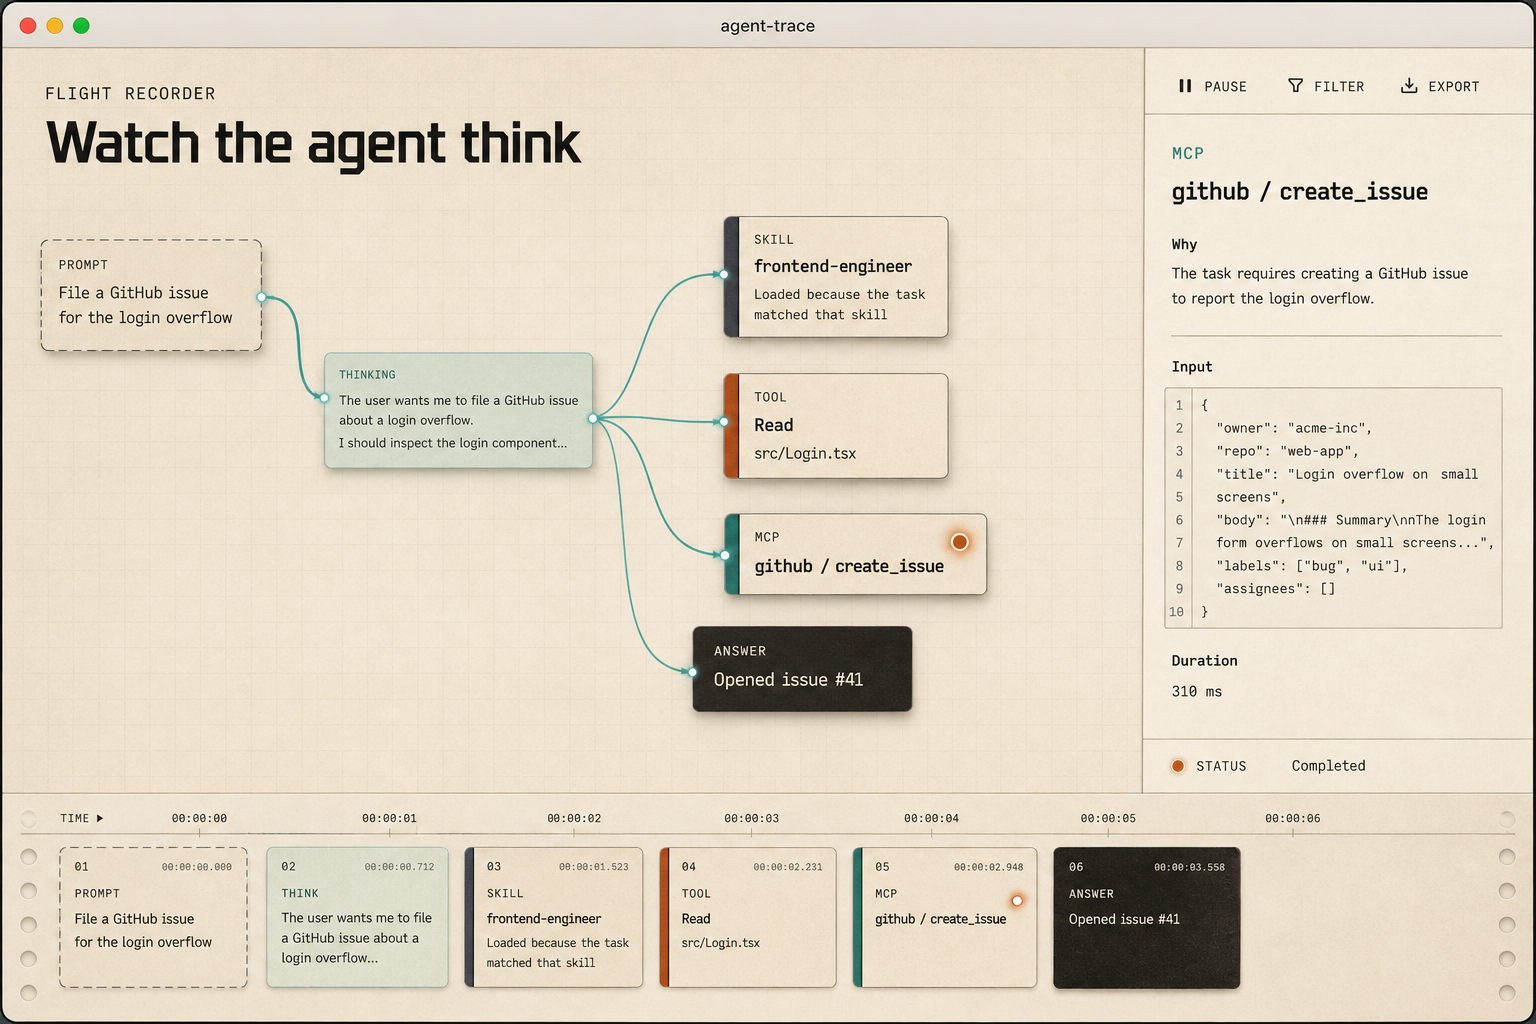
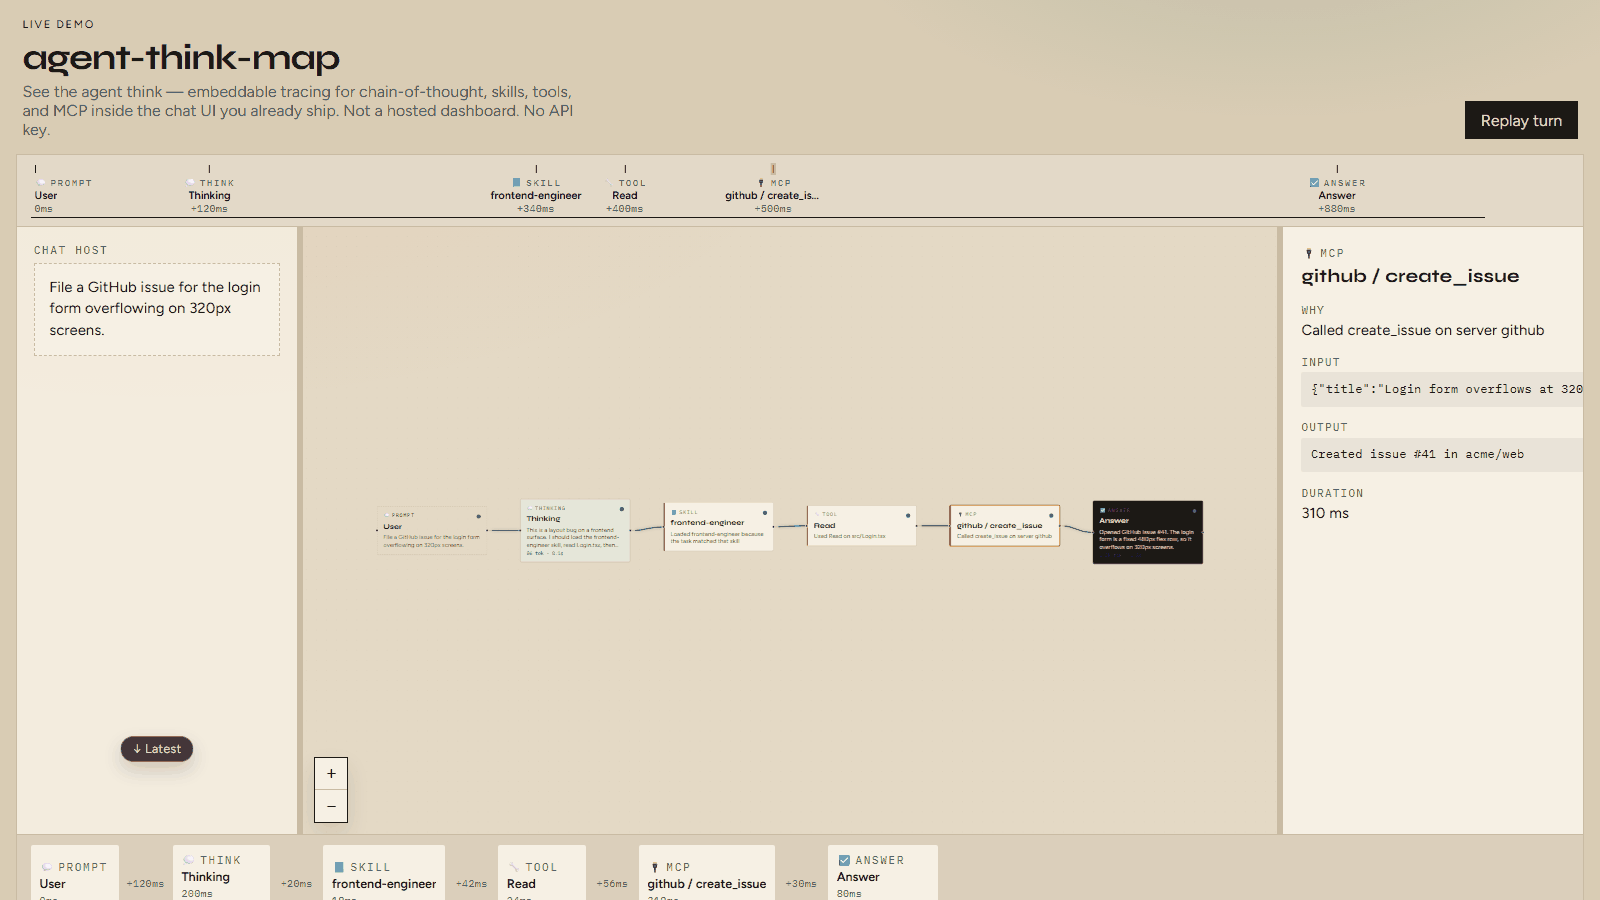
feat: brand the demo and launch assets as agent-think-map
Hero, OG, GIF, and the live demo masthead now show the product name so share cards match the repo instead of the old tagline-only chrome.

diff --git a/apps/demo/index.html b/apps/demo/index.html
@@ -3,16 +3,16 @@
   <head>
     <meta charset="UTF-8" />
     <meta name="viewport" content="width=device-width, initial-scale=1.0" />
-    <title>Visualize AI Agent Thinking: Live Demo</title>
+    <title>agent-think-map — See the agent think</title>
     <meta
       name="description"
-      content="See the agent think — live CoT, skills, tools, and MCP inside the chat you already ship. Not a dashboard. No API key."
+      content="agent-think-map: see the agent think — live CoT, skills, tools, and MCP inside the chat you already ship. Not a dashboard. No API key."
     />
     <link rel="canonical" href="https://nimrodfisher.github.io/agent-think-map/" />
-    <meta property="og:title" content="Visualize AI Agent Thinking: Live Demo" />
+    <meta property="og:title" content="agent-think-map — See the agent think" />
     <meta
       property="og:description"
-      content="Embeddable canvas for chain-of-thought, skills, tools, and MCP inside the chat UI you already ship. No API key."
+      content="agent-think-map is an embeddable canvas for chain-of-thought, skills, tools, and MCP inside the chat UI you already ship. No API key."
     />
     <meta property="og:type" content="website" />
     <meta property="og:url" content="https://nimrodfisher.github.io/agent-think-map/" />

diff --git a/apps/demo/src/App.tsx b/apps/demo/src/App.tsx
@@ -10,11 +10,12 @@ export default function App() {
     <div className="demo-shell">
       <header className="demo-mast">
         <div>
-          <span className="atc-kicker">In-product canvas</span>
-          <h1>See the agent think</h1>
+          <span className="atc-kicker">Live demo</span>
+          <h1>agent-think-map</h1>
           <p>
-            Embeddable tracing for chain-of-thought, skills, tools, and MCP inside
-            the chat UI you already ship — not a hosted dashboard. No API key.
+            See the agent think — embeddable tracing for chain-of-thought, skills,
+            tools, and MCP inside the chat UI you already ship. Not a hosted
+            dashboard. No API key.
           </p>
         </div>
         <button type="button" className="demo-replay" onClick={() => setEpoch((n) => n + 1)}>

diff --git a/docs/gtm-plan.md b/docs/gtm-plan.md
@@ -6,20 +6,20 @@ Executable playbook to make the repo discoverable, convert visitors into stars, 
 
 ---
 
-## Snapshot (17 Aug 2026)
+## Snapshot (19 Aug 2026)
 
-The product already solves a real pain: agents fail in the **path**, and chat logs show the ending. The README’s problem statement is strong. Distribution is not.
+The product already solves a real pain: agents fail in the **path**, and chat logs show the ending. The README’s problem statement is strong. Distribution is not. Public name is **agent-think-map** everywhere — repo, package, demo, web component. Do not say agent-trace in new copy.
 
 | Fact | Status |
 | --- | --- |
-| GitHub | [nimrodfisher/agent-trace](https://github.com/nimrodfisher/agent-trace) — 0 stars, 0 forks, 0 topics, created 16 Aug 2026 |
-| About line | `Real time CoT Tracing` — this is the Google snippet |
-| Package name | `agent-think-map` — **free on npm** |
+| GitHub | [nimrodfisher/agent-think-map](https://github.com/nimrodfisher/agent-think-map) — renamed; old `agent-trace` URL 301s |
+| About line | Still the default GitHub blurb — paste the one-sentence pitch (below) |
+| Package name | `agent-think-map` — **free on npm**, not yet published |
 | `agent-trace` on npm | **Taken** by someone else: “Self-hosted observability for AI coding agents” |
-| Live demo | None. GitHub Pages is off |
-| Motion | Static `docs/hero.png` at **2.2 MB**. No GIF |
-| Install | `npm i github:nimrodfisher/agent-trace` — reads unfinished |
-| Web component | `<agent-simulator>` — third name |
+| Live demo | [GitHub Pages](https://nimrodfisher.github.io/agent-think-map/) |
+| Motion | `docs/demo.gif` + `docs/hero.png` of the live canvas |
+| Install | `npm i github:nimrodfisher/agent-think-map` until npm publish |
+| Web component | `<agent-think-map>` (`<agent-simulator>` is a deprecated alias) |
 | Your reach | 74 GitHub followers, [ai-analytics-hub.com](https://ai-analytics-hub.com) |
 
 Closest comps: [agent-prism](https://github.com/evilmartians/agent-prism) (381 stars, live demo, brand) vs [agentThinkingUI](https://github.com/footprintjs/agentThinkingUI) (same “watch any agent think” pitch, 2 stars). The pitch without packaging and a launch week does not travel.
@@ -60,11 +60,11 @@ If any of those three fail, they bounce. Stars are a weak signal. The conversion
 
 Public name is **agent-think-map**. Everywhere.
 
-| Surface | Today | Change to |
+| Surface | Was | Now |
 | --- | --- | --- |
-| GitHub repo | `agent-trace` | Rename to `agent-think-map` (GitHub 301s the old URL) |
-| GitHub About | Real time CoT Tracing | The one-sentence pitch |
-| npm | unpublished | `agent-think-map` (free) |
+| GitHub repo | `agent-trace` | `agent-think-map` (old URL 301s) |
+| GitHub About | Real time CoT Tracing | Still needs the one-sentence pitch pasted |
+| npm | unpublished | `agent-think-map` (free; still unpublished) |
 | README H1 | agent-think-map | keep |
 | Web component | `<agent-simulator>` | `<agent-think-map>` plus a deprecated alias |
 | Local folder | `ai-simulator` | ignore; not public |
@@ -402,7 +402,7 @@ There is no sustained viral coefficient >1. What you are designing is word of mo
 
 ## Execution checklist
 
-- [ ] Rename GitHub repo to `agent-think-map` (after this branch is on GitHub; `gh` is not on PATH locally)
+- [x] Rename GitHub repo to `agent-think-map` (old `agent-trace` URL 301s)
 - [ ] Set About, topics, social preview (`docs/og.png` is the 1280×640 card)
 - [x] Record `docs/demo.gif` (fixture loop, 1.44 MB, watermarked)
 - [x] Replace `docs/hero.png` with the GIF (hero dropped from README)

diff --git a/docs/channel-kit.md b/docs/channel-kit.md
@@ -23,7 +23,7 @@ Canonical article body: `docs/seed-post.md`.
 
 Homepage category **Open Source / OSS**. Same Problem / Solution shape as the other Nimrod Fisher cards. Tools: Cursor, Claude, MCP, GitHub.
 
-**Title:** See the agent think inside the chat UI you already ship
+**Title:** agent-think-map — see the agent think inside the chat UI you already ship
 
 **Author:** Nimrod Fisher
 
